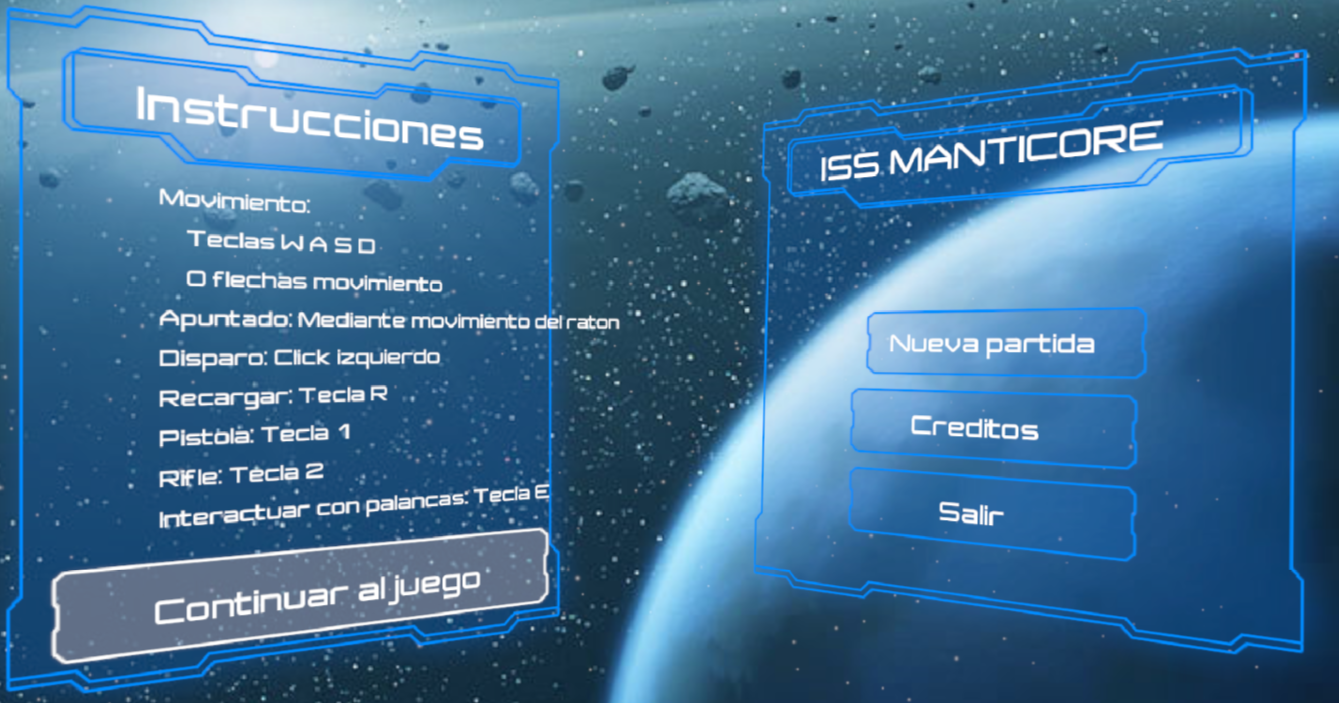
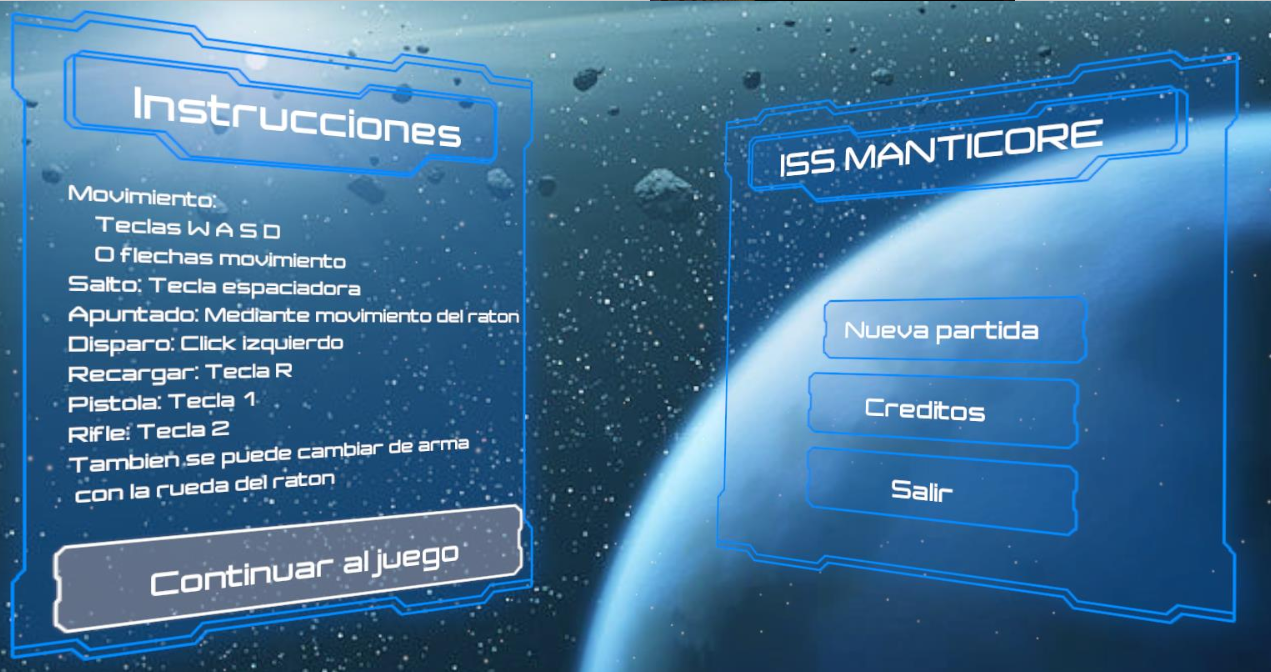
Propuesta de ultima versión

diff --git a/memoria/capitulos/Tema_2.tex b/memoria/capitulos/Tema_2.tex
@@ -215,7 +215,7 @@ ISS Manticore 3D es un First Person Shooter(FPS), donde el protagonista debe sup
 
 En esta entrega 3D, solamente tendrá un personaje principal, es decir, el mismo aventurero y cariñoso Jackie.
 
-Como en la entrega 2D, el protagonista tendrá que completar distintas fases, en las que tendrá que superar distintos enemigos y acometer distintas tareas para alcanzar su objetivo, para ello el jugador tendrá que mover al protagonista empleando las flechas del teclado para avanzar, esquivar a los enemigos y recoger los coleccionables necesarios y disparando con un click de ratón a los distintos personajes que se interpongan en su camino. La dinámica es la misma con excepción de que ahora se pondrá acompañar el personaje en primera persona y el manejo de la visón de Jackie se efectuará desde el ratón.
+Como en la entrega 2D, el protagonista tendrá que completar distintas fases, en las que tendrá que superar distintos enemigos y acometer distintas tareas para alcanzar su objetivo, para ello el jugador tendrá que mover al protagonista empleando las flechas del teclado para avanzar, esquivar a los enemigos y recoger los coleccionables necesarios y disparando con un click de ratón a los distintos personajes que se interpongan en su camino. La dinámica es la misma a excepción de que ahora se pondrá acompañar el personaje en primera persona y que el manejo de la visión de Jackie se efectuará desde el ratón.
 
 \subsection{Enemigos}
 
@@ -276,9 +276,9 @@ El menú de derrota, que aparece cuando el jugador pierde toda su vida consta de
 \subsubsection{Diseño de las escenas}
 La 1º escena utiliza como base de la escena el prefab de una de las naves disponibles en el paquete "Federation Corvette F3", donde el jugador se moverá por su superficie, aparte se han añadido varios obstáculos y paredes en el escenario. Se han repartido enemigos por el escenario para dificultar el avance del jugador, también se han añadido dos palancas, una en el extremo de la nave, con una luz potente para que se fácil saber hacia donde dirigirse, y la 2º en una plataforma en el medio del escenario junto a la puerta que abren estas dos en conjunto.
 
-La 2º escena, que se desarrolla en el interior de la nave, el escenario está compuesto por unos pasillos en los que se encuentra el motor de la nave en el centro. De uno de los pasillos con los que intersecciona, tiene una puerta medio subida por donde pasan enemigos persiguiendo al jugador, pero este no puede pasar por ese hueco, al otro lado se spawnean los enemigos sin que el jugador lo vea. En uno de los extremos del pasillo, para fomentar la exploración, que el jugador se mueva por el escenario y facilitar el combate, se han colocado un spawner de un item de vida y un spawner de un item de munición.
+En la 2º escena, que se desarrolla en el interior de la nave, el escenario está compuesto por unos pasillos en los que se encuentra el motor de la nave en el centro. En uno de los pasillos con los que intersecciona hay una puerta medio subida por donde acceden enemigos para perseguir al jugador, pero este no puede pasar por ese hueco. Al otro lado de la misma se spawnean los enemigos sin que el jugador lo vea. En uno de los extremos del pasillo, para fomentar la exploración, que el jugador se mueva por el escenario y facilitar el combate, se han colocado un spawner de un ítem de vida y un spawner de un ítem de munición.
 
-La 3º escena, se desarrolla en el mismo lugar que el 1º nivel, pero esta vez se comienza donde el jugador entraba al 2º nivel desde el 1º, en el centro del mapa. Se han colocado plataformas estáticas y móviles que el jugador tendrá que utilizar para llegar a la pequeña nave que se encuentra posada sobre uno de las torres de la nave grande que hace de escenario. Para este nivel el script de movimiento de las plataformas que se creó también es capaz de rotarlas, pero utilizar esto en plataformas que utilizara el jugador se acabó descartando porque dificultaba mucho al jugador saltar correctamente de una plataforma a otra.
+La 3º escena, se desarrolla en el mismo lugar que el 1º nivel, pero esta vez se comienza donde el jugador entraba al 2º nivel desde el 1º, en el centro del mapa. Se han colocado plataformas estáticas y móviles que el jugador tendrá que utilizar para llegar a la pequeña nave que se encuentra posada sobre uno de las torres de la nave grande que hace de escenario. Para este nivel el script de movimiento de las plataformas que se creó también es capaz de rotarlas, pero utilizar esto en plataformas que empleará el jugador se acabó descartando porque dificultaba mucho al jugador saltar correctamente de una plataforma a otra.
 
 \subsubsection{Zona de reparación del motor}
 Para la reparación del motor, se ha creado un objeto que es un cubo invisible que se puede atravesar, el área de reparación, con un script que sigue el patrón observer, comprobando si el jugador se encuentra dentro de él o no. 
@@ -295,10 +295,10 @@ En el 2º nivel, ``RepairZone'', el sistema encargado del funcionamiento del por
 En el 3º nivel, simplemente un script al iniciarse indicará que el objetivo es subir por las plataformas para llegar a una nave en la que huir, solo hay un objetivo en este nivel, por lo que no necesitará actualizarse más.
 
 \subsubsection{Enemigos}
-Respecto a los enemigos en común comentar que utilizan el patrón plantilla siendo prefabs por Unity con varias opciones configurables. A continuación, se pueden ver los aspectos de cada uno:
+Respecto a los enemigos en común, comentar que utilizan el patrón plantilla siendo prefabs de Unity con varias opciones configurables. A continuación, se pueden ver los aspectos de cada uno:
 \begin{itemize}
-	\item \textbf{BotEnemy:} Este prefab de enemigo, parte del modelo del paquete Enemy Robots. Para este se ha creado un Script con nombre RobotAI, el cual permitirá al enemigo realizar diversas acciones. Por defecto, se moverá a través de los puntos marcados como pivots circularmente patrullando, esto permite al enemigo tener interacción propia con el sistema en el tiempo que no detecta al enemigo. Este enemigo detectará al jugador una vez este entre dentro de un rango de distancia, configurable a traves del prefab, y lanze un LineCast para detectar si hay algún otro objeto entre medias, así se evita que el jugador piende que el enemigo tiene una ventaja por el simple hecho de detectarlo sin llegar a verlo. Una vez detectado, el enemigo empezará a perseguir al jugador, manteniendo un mínimo de distancia para que el jugador. Consta, así mismo, de un contador entre ataques para disparar cada el tiempo indicado. Finalmente, en los ataques instancia un objeto EnemyBullet, al cual asigna un movimiento, este al colisionar con el jugador restará un punto de vida, comentar también que se ha tomado la decisión de que los disparos del enemigo sean un proyectil, y no hitscan (disparo inmediato sin tiempo de viaje), con un movimiento más lento y retardo a la hora de apuntar para darle ventaja al jugador y que no sienta que los enemigos están haciendo trampa al calcular precisamente e inmediato donde atacar
-	\item \textbf{PA\_Warrior Variant:} Este prefab de enemigo, parte del prefab y animaciones PA\_Warrior del paquete SciFi Enemies and Vehicles. Nuevamente se ha creado un Script para dichos enemigos, estes incluyen el comportamiento inteligente dado por unity para navegar hasta la posición del jugador. Una vez más tiene un contador para medir el tiempo entre ataques. Una vez pase el contador, si se encuentra en un rango suficientemente cerca del jugador iniciarán la animación de ataque y provocarán daño en el jugador. Se ha tomado la decisión de que los enemigos provoquen daño reducido al jugador, pero como persiguen y atacan muchos juntos son un tipo de enemigo mas diverso. Mencionar como patrón utilizado la máquina de estados proporcionada por unity para la animación. Vease Figura \ref{fig:MaquinaEstados}.
+	\item \textbf{BotEnemy:} Este prefab de enemigo, parte del modelo del paquete Enemy Robots. Para este se ha creado un Script con nombre RobotAI, el cual permitirá al enemigo realizar diversas acciones. Por defecto, se moverá a través de los puntos marcados como pivots circularmente patrullando, esto permite al enemigo tener interacción propia con el sistema en el tiempo que no detecta al enemigo. Este enemigo detectará al jugador una vez este entre dentro de un rango de distancia, configurable a través del prefab, y lance un LineCast para detectar si hay algún otro objeto entre medias, así se evita que el jugador piende que el enemigo tiene una ventaja por el simple hecho de detectarlo sin llegar a verlo. Una vez detectado, el enemigo empezará a perseguir al jugador, manteniendo un mínimo de distancia con él. Consta, así mismo, de un contador entre ataques para disparar cada el tiempo indicado. Finalmente, en los ataques instancia un objeto EnemyBullet, al cual asigna un movimiento, este al colisionar con el jugador restará un punto de vida, comentar también que se ha tomado la decisión de que los disparos del enemigo sean un proyectil, y no hitscan (disparo inmediato sin tiempo de viaje), con un movimiento más lento y retardo a la hora de apuntar para darle ventaja al jugador y que no sienta que los enemigos están haciendo trampa al calcular donde atacar con precisión e inmediatez.
+	\item \textbf{PA\_Warrior Variant:} Este prefab de enemigo, parte del prefab y animaciones PA\_Warrior del paquete SciFi Enemies and Vehicles. Nuevamente se ha creado un Script para dichos enemigos, estes incluyen el comportamiento inteligente dado por Unity para navegar hasta la posición del jugador. Una vez más tiene un contador para medir el tiempo entre ataques. Una vez se complete el tiempo de ese contador, si se encuentra en un rango suficientemente cercano del jugador iniciarán la animación de ataque y provocarán daño en el jugador. Se ha tomado la decisión de que los enemigos provoquen daño reducido al jugador, pero como persiguen y atacan muchos juntos son un tipo de enemigo más diverso. Mencionar, como patrón utilizado, la máquina de estados proporcionada por Unity para la animación. Vease Figura \ref{fig:MaquinaEstados}.
 \end{itemize}
 
 \begin{figure}[H]
@@ -307,25 +307,42 @@ Respecto a los enemigos en común comentar que utilizan el patrón plantilla sie
 	\caption{\label{fig:MaquinaEstados}Ejemplo de la visualización del HUD en pantalla}
 \end{figure}
 
-\subsubsection{Camera controler}
-
-\subsubsection{Enemigos - Patrón estrategia}
-
-\subsubsection{Combate - Patrón estrategia}
-
 \subsubsection{Puntuación}
-
-\subsubsection{Menu principal}
-
-\subsubsection{Plataformas móviles}
-Para la creación de plataformas móviles se ha creado un script que nos permite a través del inspector controlar el movimiento y/o rotación de la plataforma a la que este asignada. Para ambas características se permite indicar las velocidades. En lo que respecta al movimiento este se basa en una serie de puntos a través de los cuales se irá moviendo y se pueden configurar a través del inspector.
+Cada vez que se elimina a un enemigo se suma un punto a la puntuación del jugador, que puede observar en la parte superior izquierda del HUD. Este sistema sigue un patron comando, pues cada vez que se ejecuta este ordena al HUD que actualice la puntuación.
 
 \subsubsection{Sistema de palancas}
 En cuanto al sistema de palancas, se utiliza el prefab de la palanca y su correspondiente animación, visible cuando el personaje la acciona. Se ha modificado el script propio de la palanca para obtener Lever con el comportamiento deseado. Además, se ha creado otro script nuevo para el sistema, denominado LeverSystem, que permite que, al añadir a la escena tantas palancas como se deseen, solo se abra la puerta cuando todas y cada una de ellas estén accionadas.
 
 \subsubsection{Sistema de vidas}
-El sistema de vidas gestiona la salud del personaje, cuando una bala de un bot enemy golpea al personaje, este pierde una vida. En cambio, cuando es un spiderbot el que alcanza al personaje, este se queda sin un cuarto de vida. También permite al personaje recuperar vida cuando este recoge un item de vida.
+El sistema de vidas gestiona la salud del personaje, cuando una bala de un bot enemy golpea al personaje, este pierde una vida. En cambio, cuando es un spiderbot el que alcanza al personaje, este se queda sin un cuarto de vida. También permite al personaje recuperar vida cuando este recoge un ítem de vida. Cuando el personaje se queda sin vidas el sistema muestra el menú de Game Over donde el jugador puede escoger entre reiniciar el nivel en el que se encuentra, volver al menú principal o abandonar el juego.
 
+\subsubsection{Items de recuperación de munición y vida}
+Para estos items se ha utilizado utilizado unos modelos con forma de maletines, para la munición se utiliza el script ``Ammo Box'' del ``Creator Kit: FPS'', y recupera 10 unidades de munición.
+
+En el caso del item de vida, se creó un script con un funcionamiento similar al de munición, al colisionar el jugador con el item este llama a la función de recuperar vida y se destruye.
+
+Estos dos scripts siguen un patrón comando pues ordenan actualizar los datos de munición (Figura \ref{fig:EjemploMunicion3D}) y de vida (Figura \ref{fig:EjemploVida3D}).
+
+\begin{figure}[H]
+	\centering
+	\includegraphics[scale=0.65]{imagenes/EjemploMunicion3D.png}
+	\caption{\label{fig:EjemploMunicion3D}Ejemplo de un recolectable de munición}
+\end{figure}
+
+\begin{figure}[H]
+	\centering
+	\includegraphics[scale=0.65]{imagenes/EjemploVida3D.png}
+	\caption{\label{fig:EjemploVida3D}Ejemplo de un recolectable de vida}
+\end{figure}
+
+\subsubsection{Objeto de cambio de escena}
+Para el cambio de escena de cada nivel se ha utilizado un prefab (por lo que sigue el patrón plantilla) que es un cubo invisible con el script ``ChangeScene'', este se activa cuando el jugador entra en contacto con el objeto cargando el escenario indicado. Al ordenar cambiar de escenario siguen un patrón comando.
+
+\subsubsection{Menu de pausa}
+Se utilizó el menu de pausa proporcionado por ``Creator Kit: FPS'' pero cambiando el botón de seleccion de nivel por un botón para ir menú principal.
+
+\subsubsection{Jugador, controlador del jugador y sistema de disparos}
+Para estos 3 elementos se utilizaron los proporcionados por "Creator Kit: FPS" y no se realizó ningún cambio destacable en ellos.
 
 \subsection{Escenas}
 
@@ -333,7 +350,7 @@ La transición entre escenas se muestra en el diagrama de la Figura \ref{fig:Tra
 
 \begin{figure}[H]
 	\centering
-	\includegraphics[scale=0.60]{imagenes/transicionEscenas3D.png}
+	\includegraphics[scale=0.75]{imagenes/transicionEscenas3D.png}
 	\caption{\label{fig:TrasicionEscenas3D}Diagrama de transición de las escenas}
 \end{figure}
 
@@ -347,32 +364,61 @@ El menú principal consta de 3 botones como se muestra en la Figura \ref{fig:Men
 
 Detalles de cada opción del menu presentado en la Figura \ref{fig:MenuPrincipal3D1}:
 \begin{itemize}
-	\item \textbf{Nueva Partida:} Activa una segunda ventana en el menú con una explicación con los controles del juego y un botón ``Continuar al juego'' que lleva al nivel 1 como se muestra en la Figura \ref{fig:MenuPrincipalNuevaPartida}.
+	\item \textbf{Nueva Partida:} Activa una segunda ventana en el menú con una explicación de los controles del juego y un botón ``Continuar al juego'' que lleva al nivel 1 como se muestra en la Figura \ref{fig:MenuPrincipalNuevaPartida}.
 	\begin{figure}[H]
 		\centering
-		\includegraphics[scale=0.35]{imagenes/MenuPrincipalNuevaPartida.png}
+		\includegraphics[scale=0.40]{imagenes/MenuPrincipalNuevaPartida.png}
 		\caption{\label{fig:MenuPrincipalNuevaPartida}Apartado Nueva partida del Menu Principal}
 	\end{figure}
 	\item \textbf{Créditos:} Activa una segunda ventana en el menú con los créditos del juego y un botón ``cerrar'' para cerrar esta ventana como se muestra en la Figura \ref{fig:MenuPrincipalCreditos}.
 	\begin{figure}[H]
 		\centering
 		\includegraphics[scale=0.35]{imagenes/MenuPrincipalCreditos.png}
-		\caption{\label{fig:MenuPrincipalCreditos}Apartado Créditdo del Menu Principal}
+		\caption{\label{fig:MenuPrincipalCreditos}Apartado Crédito del Menu Principal}
 	\end{figure}
-	\item \textbf{Salir:} Cierra el juegos.
+	\item \textbf{Salir:} Cierra el juego.
 \end{itemize}
 
+
+\subsubsection{Menú de derrota}
+El menú de derrota consta de un texto informativo para indicar que se ha terminado el juego con una frase ``Game Over'' y tres opciones al usuario (Figura \ref{fig:MenuDerrota}):
+\begin{itemize}
+	\item \textbf{Reiniciar Nivel:} Devuelve al jugador al inicio del nivel del cual ha sido derrotado.
+	\item \textbf{Menu Principal:} Devuelve al jugador al Menu Principal del juego.
+	\item \textbf{Salir}: Permite el jugador salir del juego.
+\end{itemize}
+
+\begin{figure}[H]
+	\centering
+	\includegraphics[scale=0.40]{imagenes/MenuDerrota.png}
+	\caption{\label{fig:MenuDerrota}Ejemplo de la pantalla de derrota}
+\end{figure}
 
 \subsubsection{Menú de victoria}
 El menú de victoria consta de un texto informativo para indicar que se ha completado el juego (Figura \ref{fig:MenuVictoria3D}), y consta de 1 botón:
 \begin{itemize}
-	\item \textbf{Reiniciar Juego:} Devuelve al jugador al Menu Principal (Figura \ref{fig:MenuPrincipal3D1}), donde podrá escoger que acción tomar.
+	\item \textbf{Reiniciar Juego:} Devuelve al jugador al Menú Principal (Figura \ref{fig:MenuPrincipal3D1}), donde podrá escoger que acción tomar.
 \end{itemize}
 
 \begin{figure}[H]
 	\centering
 	\includegraphics[scale=0.85]{imagenes/MenuVictoria3D.png}
 	\caption{\label{fig:MenuVictoria3D}Ejemplo de la pantalla de victoria}
+\end{figure}
+
+\subsubsection{Menú de pausa}
+El menú de pausa consta de tres botones para que el jugador pueda elegir una de las opciones (Figura \ref{fig:MenuPausa}):
+\begin{itemize}
+	\item \textbf{Continuar:} Permite que el jugador pueda continuar la partida.
+	\item \textbf{Menu Principal:} Permite que el jugador pueda regresar al Menu Principal del juego.
+	\item \textbf{Menu Salir:} Permite que el jugador pueda salir del juego.
+\end{itemize}
+
+
+\begin{figure}[H]
+	\centering
+	\includegraphics[scale=0.85]{imagenes/MenuPausa.png}
+	\caption{\label{fig:MenuPausa}Ejemplo de la pantalla de pausa}
 \end{figure}
 
 \subsubsection{Escena 1}
@@ -435,20 +481,7 @@ Para el diseño de este escenario se han utilizado los Prefabs que proporcionan 
 
 \subsection{Aspectos destacables y detalles de su implementación}
 
-\subsubsection{Controlador del personaje}
-El personaje se controla desde una perspectiva en primera persona. Como base del controlador,  se hace uso del ``Asset tal'' que se encuetra en la carpeta tal.
+\subsubsection{Plataformas móviles}
+Para la creación de plataformas móviles se ha creado un prefab que permite a través del inspector controlar el movimiento y/o rotación de la plataforma a la que este asignada. Para ambas características se permite indicar las velocidades. En lo que respecta al movimiento este se basa en una serie de puntos a través de los cuales se irá moviendo y se pueden configurar a través del inspector. Implementan el patrón plantilla al ser prefab.
 
-Originalmente el personaje tenia un comportamiento tal.....
-
-Se modifica el controlador en ``Eso'' para lograr una adaptación ``tal'' para funcionara con el desarrollo del proyecto actual. Los detalles se lista a continuación:
-
-\begin{itemize}
-	\item \textbf{Movimiento:} kldjfalkjdlkjfla
-	\item \textbf{Ataque:} dkfñlakflñadskfal
-	\item \textbf{Modo de combate:} fkdsjflkajsldj
-	\item \textbf{Rodar:} askdjfalksfdjlska
-	\item \textbf{Saltar:} lfkjadslkfjaklsdfj
-	\item \textbf{Animaciones:} fkjdsfklajflk
-\end{itemize}
-
-La mayoría de las animaciones que proporciona el personaje es .........
+Además, cabe destacar que se hace uso de la herramienta ProBuilder de Unity para crear varios objetos de las escenas 1 y 3, empleando los prefabs disponibles, y también para crear un objeto con paredes invisibles que sirve para delimitar los escenarios.

diff --git a/memoria/capitulos/Tema_4.tex b/memoria/capitulos/Tema_4.tex
@@ -6,7 +6,7 @@ La estructura del videojuego es la siguiente:
 
 \begin{figure}[H]
 	\centering
-	\includegraphics[scale=0.50]{imagenes/estructuraEscena3D.png}
+	\includegraphics[scale=0.60]{imagenes/estructuraEscena3D.png}
 	\caption{\label{fig:EstructuraEscena3D}Estructura de las escenas del video juego}
 \end{figure}
 
@@ -21,7 +21,7 @@ Las teclas WASD y las flechas del teclado permiten que el jugador se mueva por e
 	\caption{\label{fig:flechasTeclado}Teclas de movimiento del personaje}
 \end{figure}
 
-El ratón permite que el jugador apunte y dispare los proyectiles a sus enemigos con click izquierdo.
+El ratón permite que el jugador apunte y dispare los proyectiles a sus enemigos con el click izquierdo.
 
 \begin{figure}[H]
 	\centering
@@ -36,21 +36,25 @@ La tecla escape permite al jugador acceder al menú de pausa
 	\caption{\label{fig:escape}Tecla escape}
 \end{figure}
 
+Para efectuar un salto con el personaje se utiliza la tecla espacio del teclado.
+
+Para efectuar el cambio del arma del personaje se utilizan las teclas 1 y 2 del teclado o haciendo un giro de la rueda del ratón.
+
 \section{Ejecución del juego}
-Para ejecutar el juego  basta el ejecutar el archivo ejecutable del juego.
+Para abrir el juego basta con ejecutar ``ISS\_Manticore.exe''.
 
-Los escenarios utilizan elementos creados mediante la herramienta ProBuilder, por lo que es necesario la instalación de la herramienta ProBuilder en Unity para poder visualizar e interactuar correctamente con algunos escenarios.
-
-\section{Navegación del Menu Principal}
+\section{Navegación del Menú Principal}
 Al iniciarse el juego aparece el menú de inicio con las siguientes opciones: 
 
 \begin{figure}[H]
 	\centering
 	\includegraphics[scale=0.40]{imagenes/MenuPrincipal3D1.png}
-	\caption{\label{fig:EjemploMenuPrincipal3D}Ejemplo del menu principal}
+	\caption{\label{fig:EjemploMenuPrincipal3D}Ejemplo del menú principal}
 \end{figure}
 
-Para desplazarse entre las distintas opciones se utilizan las flechas del teclado y para seleccionarla se pulsa Enter.  
+Para desplazarse entre las distintas opciones se utilizan las flechas o las teclas WASD del teclado o el ratón.
+
+Para seleccionar la opción deseada basta pulsar la tecla enter del teclado o efectuar un click con el botón izquierdo del ratón.
 
 A continuación, se detallan cada una de ellas: 
 \begin{itemize}

diff --git a/memoria/main.tex b/memoria/main.tex
@@ -35,6 +35,7 @@
 \newcommand{\miFacultadCorto}{FIC}
 \newcommand{\miUniversidad}{\protect{Universidad de La Coruña}}
 \newcommand{\miUbicacion}{La Coruña}
+
 \newcommand{\firma}{include/firma}
 
 % Configuración automática según el identificador elegido
